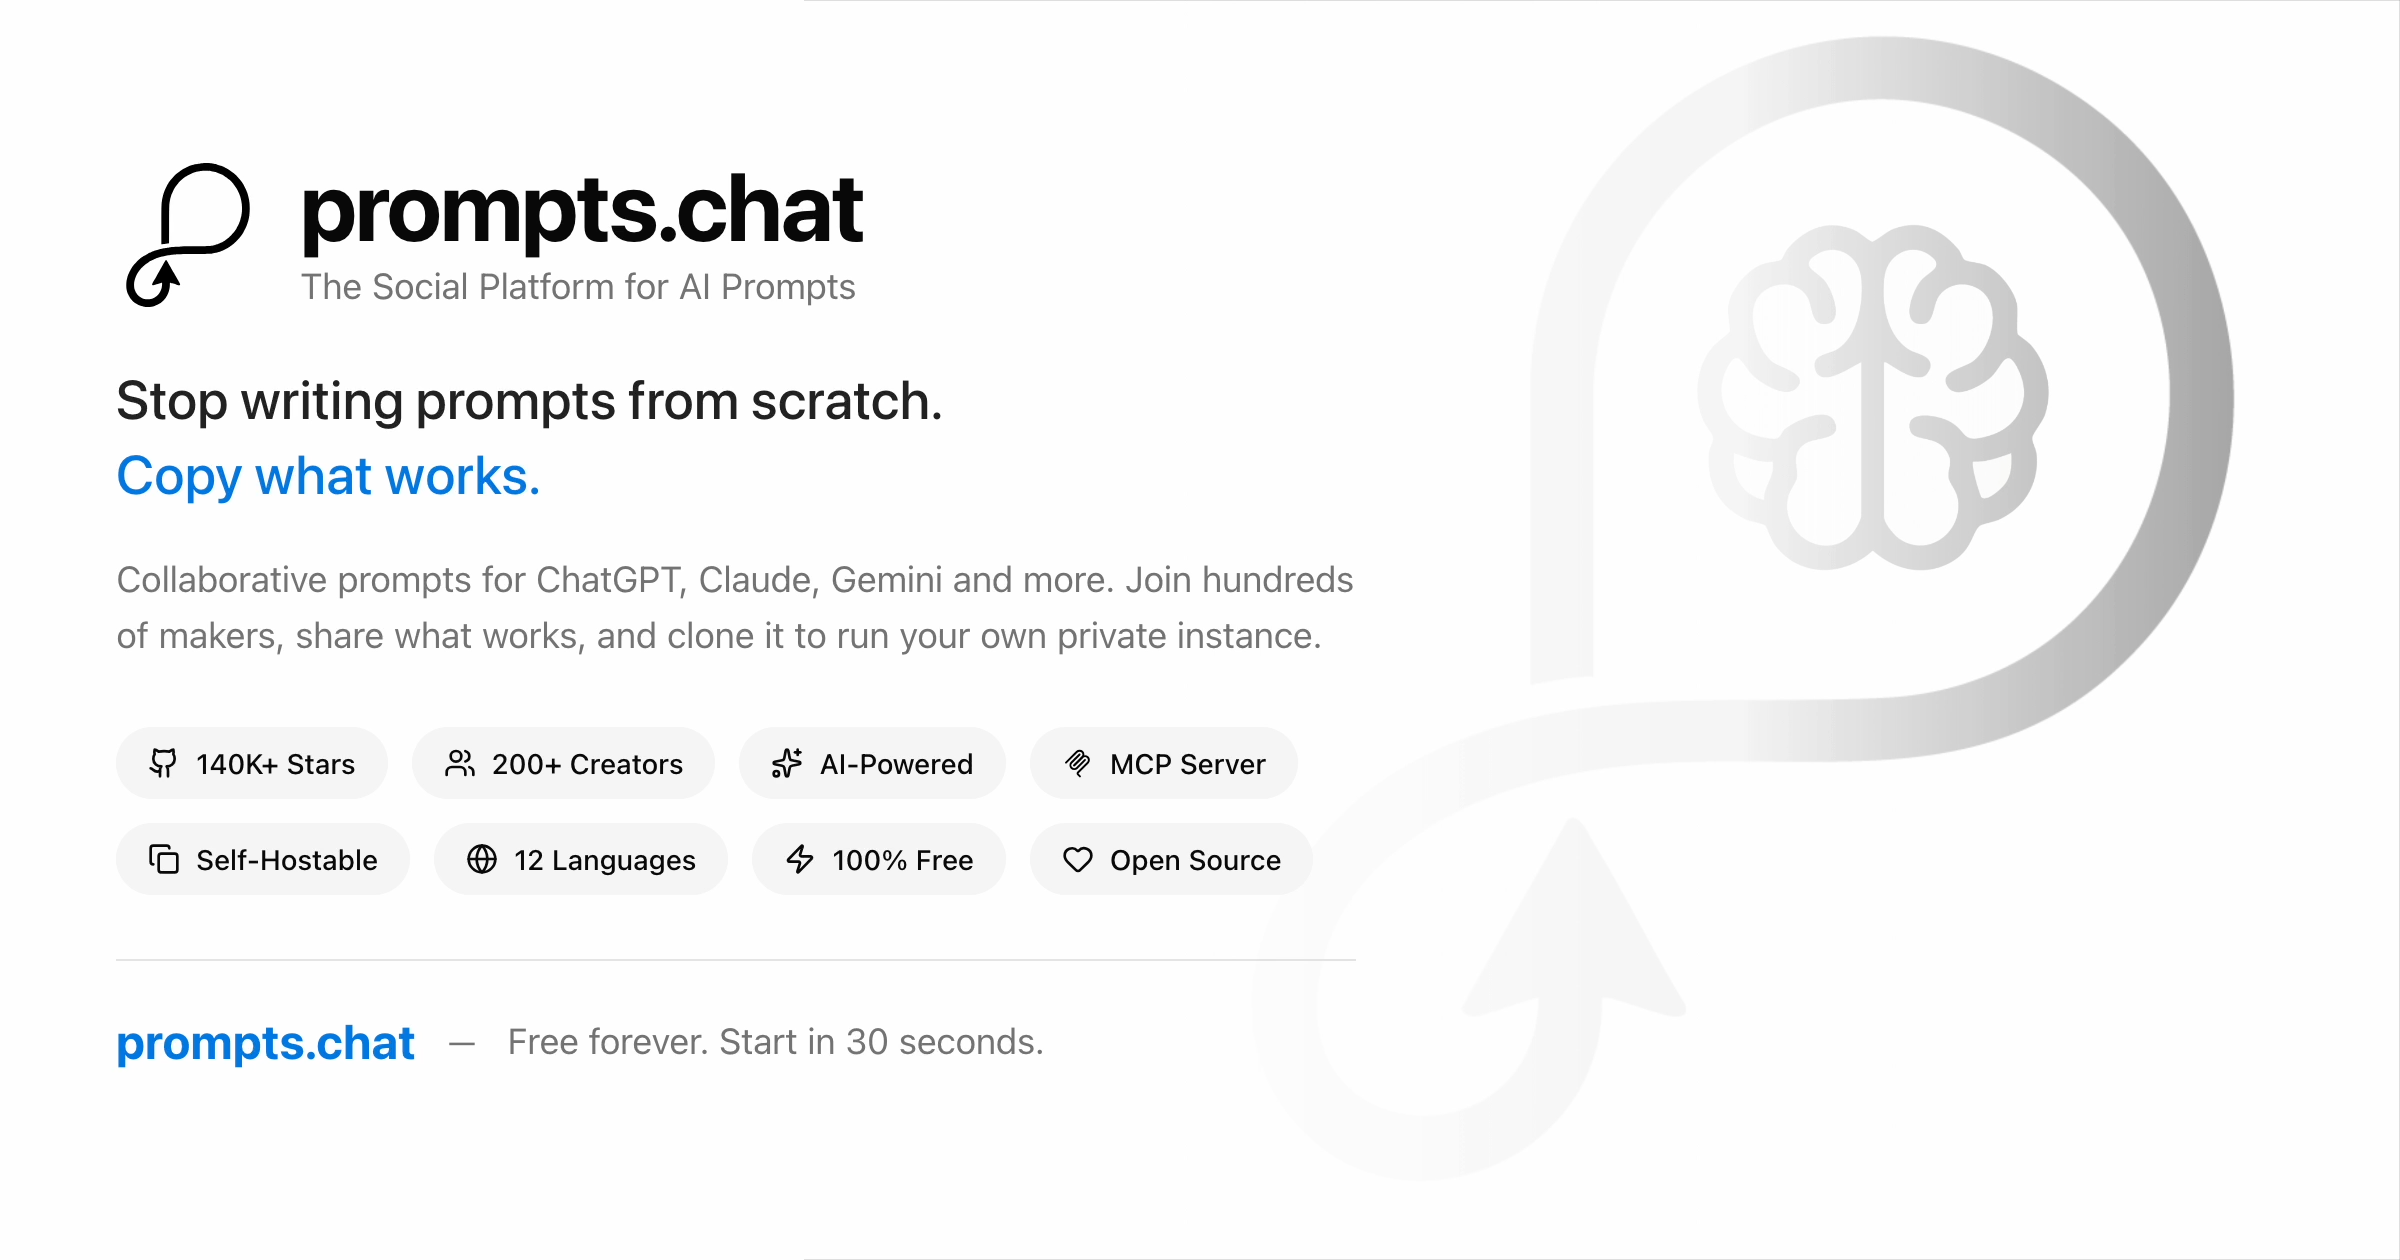
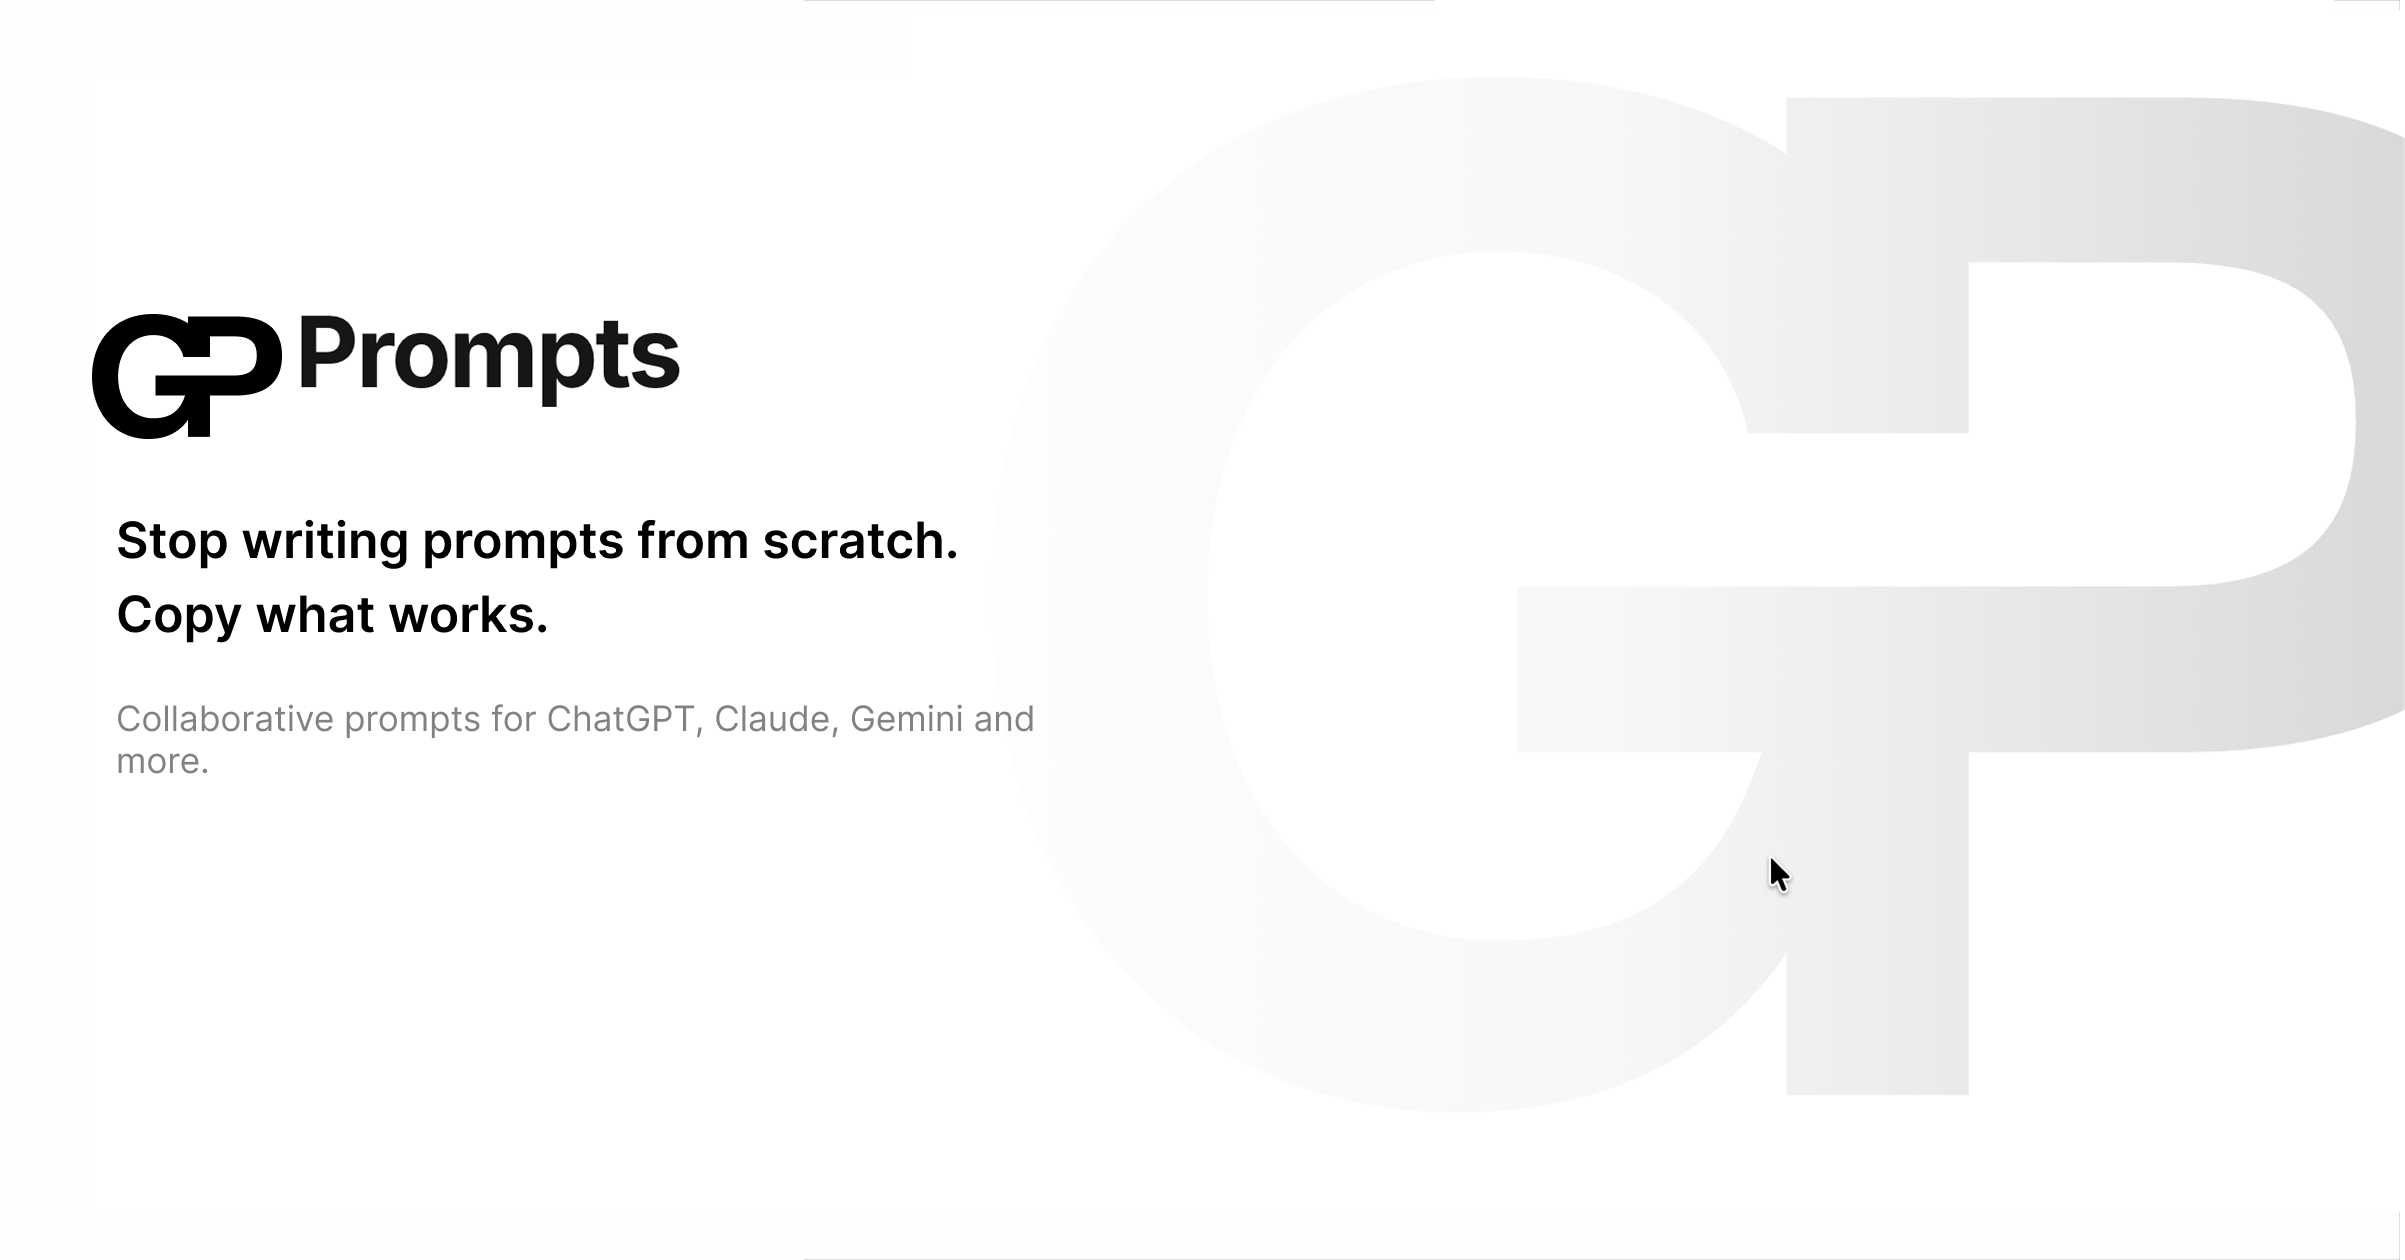
Filter language switcher by configured locales, hide mobile hero categories for clone branding

diff --git a/src/components/prompts/language-switcher.tsx b/src/components/prompts/language-switcher.tsx
@@ -31,8 +31,13 @@ const languages = [
   { code: "el", name: "Ελληνικά" }
 ];
 
-export function LanguageSwitcher() {
+interface LanguageSwitcherProps {
+  locales?: string[];
+}
+
+export function LanguageSwitcher({ locales }: LanguageSwitcherProps) {
   const t = useTranslations("settings");
+  const availableLanguages = locales ? languages.filter((lang) => locales.includes(lang.code)) : languages;
 
   return (
     <DropdownMenu>
@@ -43,7 +48,7 @@ export function LanguageSwitcher() {
         </Button>
       </DropdownMenuTrigger>
       <DropdownMenuContent align="start" className="max-h-[300px] overflow-y-auto">
-        {languages.map((lang) => (
+        {availableLanguages.map((lang) => (
           <DropdownMenuItem
             key={lang.code}
             onClick={() => setLocale(lang.code)}

diff --git a/src/app/page.tsx b/src/app/page.tsx
@@ -212,9 +212,11 @@ export default async function HomePage() {
             </div>
             
             {/* Mobile Hero Categories */}
-            <div className="mt-8 lg:hidden">
-              <HeroCategories />
-            </div>
+            {!useCloneBranding && (
+              <div className="mt-8 lg:hidden">
+                <HeroCategories />
+              </div>
+            )}
 
             {/* Tablet Clients Section - hidden on mobile phones */}
             {!useCloneBranding && (

diff --git a/src/components/layout/header.tsx b/src/components/layout/header.tsx
@@ -106,9 +106,11 @@ const languages = [
 interface HeaderProps {
   authProvider?: string;
   allowRegistration?: boolean;
+  locales?: string[];
 }
 
-export function Header({ authProvider = "credentials", allowRegistration = true }: HeaderProps) {
+export function Header({ authProvider = "credentials", allowRegistration = true, locales }: HeaderProps) {
+  const availableLanguages = locales ? languages.filter((lang) => locales.includes(lang.code)) : languages;
   const isOAuth = authProvider !== "credentials";
   const { data: session } = useSession();
   const t = useTranslations();
@@ -624,7 +626,7 @@ export function Header({ authProvider = "credentials", allowRegistration = true 
                     {t("settings.language")}
                   </DropdownMenuSubTrigger>
                   <DropdownMenuSubContent>
-                    {languages.map((lang) => (
+                    {availableLanguages.map((lang) => (
                       <DropdownMenuItem
                         key={lang.code}
                         onClick={() => {
@@ -657,7 +659,7 @@ export function Header({ authProvider = "credentials", allowRegistration = true 
                   </Button>
                 </DropdownMenuTrigger>
                 <DropdownMenuContent align="end">
-                  {languages.map((lang) => (
+                  {availableLanguages.map((lang) => (
                     <DropdownMenuItem
                       key={lang.code}
                       onClick={() => {

diff --git a/src/app/how_to_write_effective_prompts/page.tsx b/src/app/how_to_write_effective_prompts/page.tsx
@@ -2,6 +2,7 @@ import { getTranslations } from "next-intl/server";
 import { PromptWritingGuideContent } from "@/components/prompts/prompt-writing-guide-content";
 import { LanguageSwitcher } from "@/components/prompts/language-switcher";
 import { InteractiveBookBanner } from "@/components/prompts/interactive-book-banner";
+import { getConfig } from "@/lib/config";
 
 export async function generateMetadata() {
   const t = await getTranslations("promptWritingGuide");
@@ -13,6 +14,7 @@ export async function generateMetadata() {
 
 export default async function HowToWriteEffectivePromptsPage() {
   const t = await getTranslations("promptWritingGuide");
+  const config = await getConfig();
 
   return (
     <div className="container max-w-4xl py-8">
@@ -20,7 +22,7 @@ export default async function HowToWriteEffectivePromptsPage() {
       <div className="mb-8">
         <h1 className="text-3xl font-bold mb-2">{t("title")}</h1>
         <p className="text-muted-foreground mb-4">{t("subtitle")}</p>
-        <LanguageSwitcher />
+        <LanguageSwitcher locales={config.i18n.locales} />
       </div>
       <PromptWritingGuideContent />
     </div>

diff --git a/src/app/layout.tsx b/src/app/layout.tsx
@@ -198,7 +198,7 @@ export default async function RootLayout({
               <LocaleDetector />
               <div className="relative min-h-screen flex flex-col">
                 <AnnouncementBanner />
-                <Header authProvider={config.auth.provider} allowRegistration={config.auth.allowRegistration} />
+                <Header authProvider={config.auth.provider} allowRegistration={config.auth.allowRegistration} locales={config.i18n.locales} />
                 <main className="flex-1">{children}</main>
                 <Footer />
                 <CookieConsentBanner />